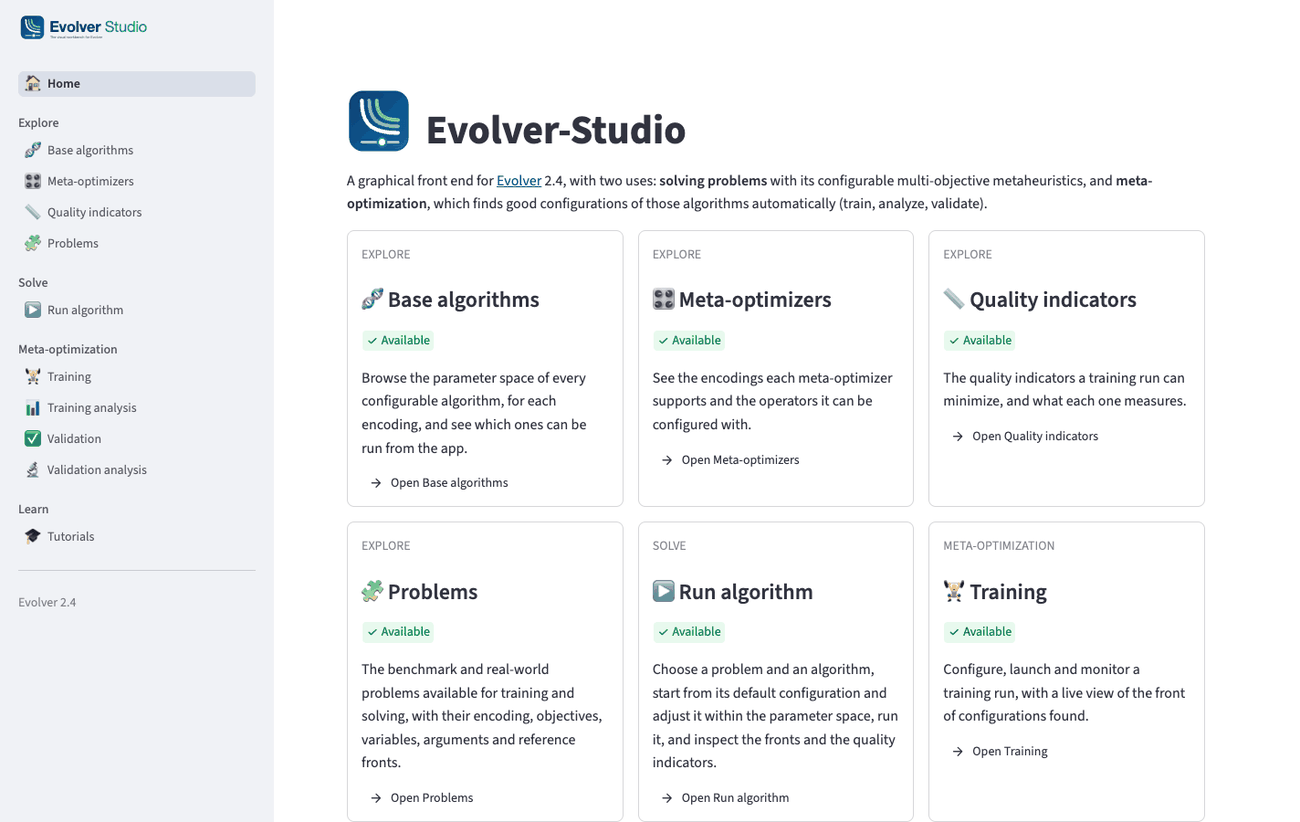
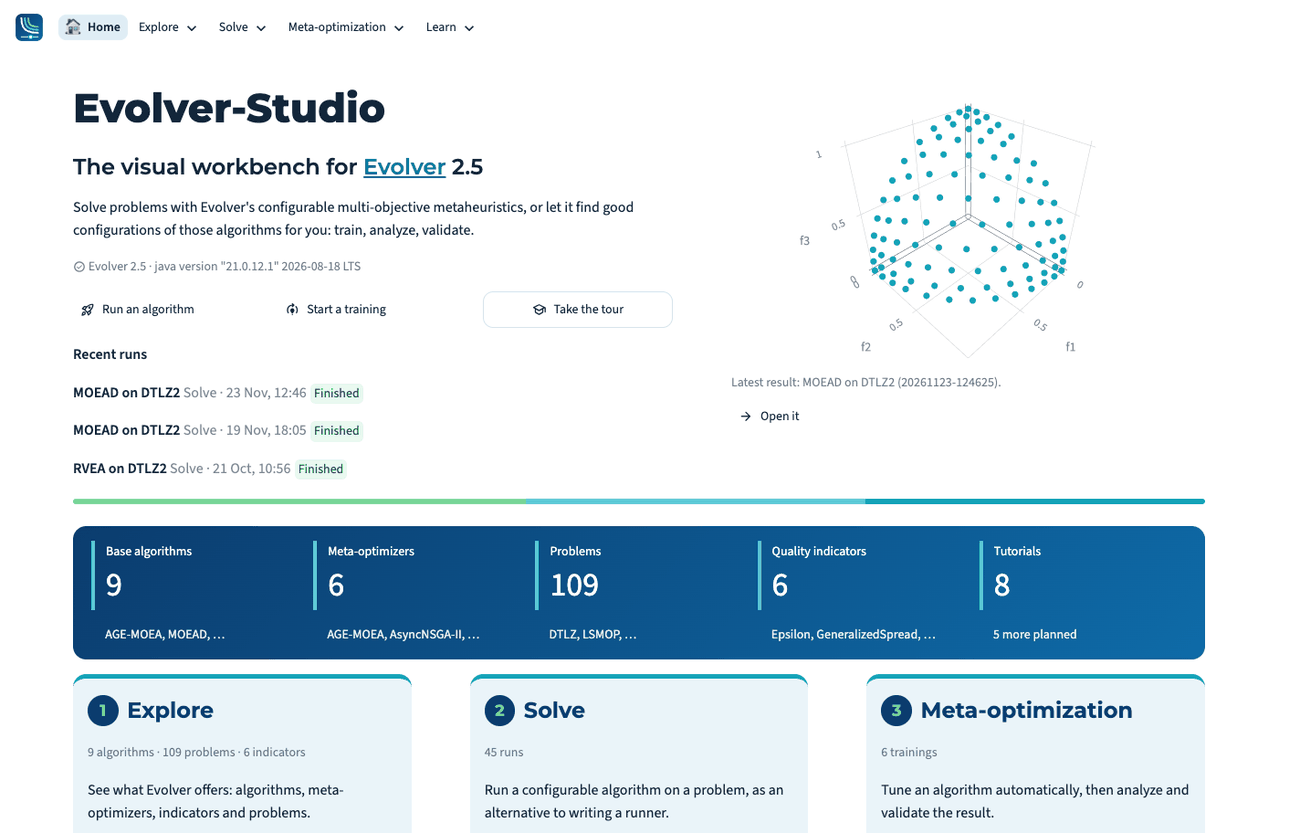
docs: retake the README's screenshot of the home page
The home page changed (menu on top, no sidebar, a panel of the studio),
and the crop of its screenshot depended on the old cards. It now runs
from the menu to the first rows of the three steps.

The script hides only Streamlit's own menu, not the app's, and takes
`--only home` to retake just this image.

diff --git a/scripts/screenshots.py b/scripts/screenshots.py
@@ -2,7 +2,7 @@
 
 Run the app first (`make run`), then:
 
-    python scripts/screenshots.py [--url http://localhost:8501] [--with-training]
+    python scripts/screenshots.py [--url http://localhost:8501] [--with-training] [--only home]
 
 The images go to docs/images/. They show what is in the app's folders, so take them where:
 
@@ -10,6 +10,8 @@ The images go to docs/images/. They show what is in the app's folders, so take t
   is a good one);
 - Validation analysis lists a study with several problems and algorithms (`--study` chooses it by
   part of its name; the first one listed otherwise).
+
+`--only home` takes just the home page's image, leaving the others as they are.
 
 `--with-training` also launches the Training page's default training, waits for its monitor to
 fill and captures it, then cancels the training: its folder stays in cli-runner-runs/, marked as
@@ -51,17 +53,16 @@ TAB_PANEL = """(() => {
   const r = panel.getBoundingClientRect();
   return [r.x, r.y + window.scrollY, r.width, r.height];
 })()"""
-# The page down to the end of the second row of cards of the home page.
+# The home page, from the menu down to the first rows of the three steps (below the band of facts).
 HOME_TOP = """(() => {
-  const cards = [...document.querySelectorAll('[data-testid=stVerticalBlockBorderWrapper]')];
-  const bottom = cards.length > 4 ? cards[4].getBoundingClientRect().bottom : 900;
+  const band = document.querySelector('.st-key-home_facts').getBoundingClientRect();
   const main = document.querySelector('[data-testid=stMainBlockContainer]');
-  return [0, 0, main.getBoundingClientRect().right + 24, bottom + window.scrollY];
+  return [0, 0, main.getBoundingClientRect().right + 24, band.bottom + window.scrollY + 190];
 })()"""
-# Hide what is not the app's: Streamlit's toolbar (Deploy, the menu).
+# Hide what is not the app's: Streamlit's menu at the top right (the app's own menu stays).
 HIDE_TOOLBAR = """(() => {
   const style = document.createElement('style');
-  style.textContent = '[data-testid=stToolbar], [data-testid=stDecoration] {display: none;}';
+  style.textContent = '[data-testid=stMainMenu], [data-testid=stDecoration] {display: none;}';
   document.head.appendChild(style);
 })()"""
 
@@ -172,7 +173,7 @@ def _chrome() -> str:
     raise SystemExit("Chrome or Chromium was not found")
 
 
-async def _take(url: str, with_training: bool, study: str | None) -> None:
+async def _take(url: str, with_training: bool, study: str | None, only: str | None) -> None:
     targets = None
     for _ in range(50):
         try:
@@ -197,6 +198,8 @@ async def _take(url: str, with_training: bool, study: str | None) -> None:
 
         await browser.open(url, wait=9)
         await browser.capture(HOME_TOP, "home", margin=0)
+        if only == "home":
+            return
 
         await browser.open(f"{url}/training_analysis")
         await browser.tab("Convergence")
@@ -224,6 +227,9 @@ def main() -> None:
     parser.add_argument("--url", default="http://localhost:8501")
     parser.add_argument("--with-training", action="store_true")
     parser.add_argument(
+        "--only", choices=["home"], help="Take only this image (the others are left as they are)"
+    )
+    parser.add_argument(
         "--study", help="Part of the name of the validation study to show (default: the first)"
     )
     args = parser.parse_args()
@@ -242,7 +248,7 @@ def main() -> None:
             stderr=subprocess.DEVNULL,
         )
         try:
-            asyncio.run(_take(args.url.rstrip("/"), args.with_training, args.study))
+            asyncio.run(_take(args.url.rstrip("/"), args.with_training, args.study, args.only))
         finally:
             chrome.terminate()
             chrome.wait(timeout=10)
